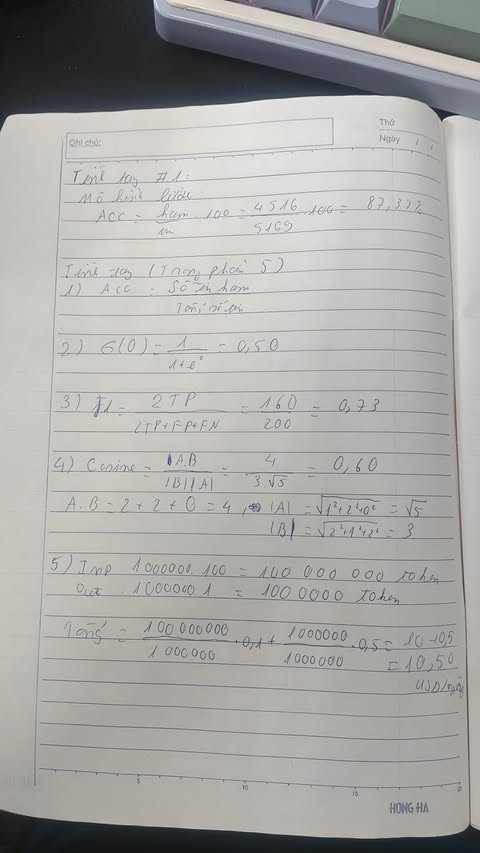
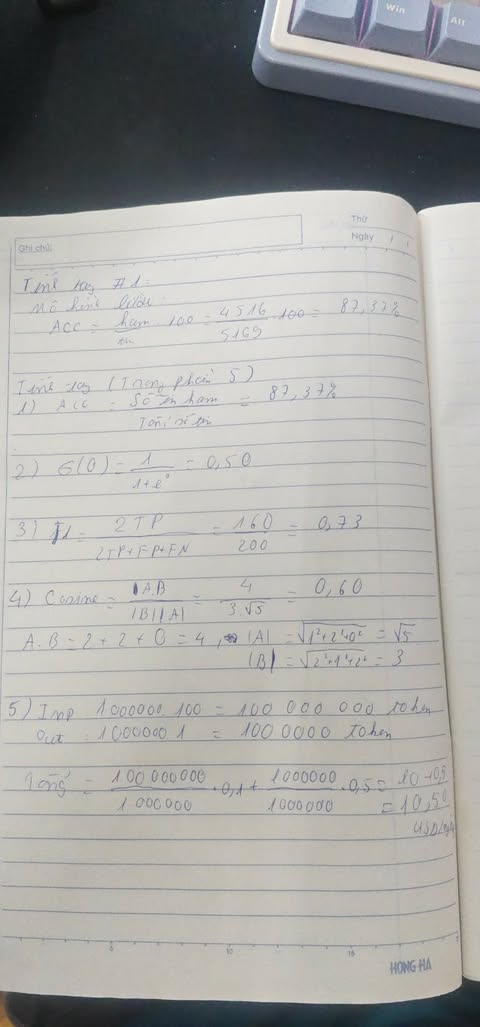
Update Day 01 report results

diff --git a/report/individual/2A202603885_DinhQuocViet.md b/report/individual/2A202603885_DinhQuocViet.md
@@ -10,9 +10,9 @@
 
 | Tệp | Có? |
 | --- | --- |
-| [`day01_lab.ipynb`](day01_lab.ipynb) — notebook đã chạy, còn output | ☐ |
-| [`lab1_report.json`](lab1_report.json) — do ô "Báo cáo cuối" sinh ra | ☐ |
-| [`hand_calc.jpg`](hand_calc.jpg) — ảnh tính tay có các bước | ☐ |
+| [`day01_lab.ipynb`](day01_lab.ipynb) — notebook đã chạy, còn output | không còn |
+| [`lab1_report.json`](lab1_report.json) — do ô "Báo cáo cuối" sinh ra | có |
+| [`hand_calc.jpg`](hand_calc.jpg) — ảnh tính tay có các bước | có |
 
 ## 2. Kết quả chính
 
@@ -20,9 +20,9 @@
 Model	F1 test	F1 SUB 40	p95 (ms/tin)	USD/1k tin
 BoW + LogReg	0.845	0.750	0.339	0
 BoW + MLP	0.921	0.857	1.917	0
-Emb + kNN	0.866	0.889	61.669	0
-Emb + LogReg	0.939	0.857	37.518	0
-Emb + MLP head	0.944	0.889	38.371	0
+MiniLM + kNN	0.866	0.889	61.669	0
+MiniLM + LogReg	0.939	0.857	37.518	0
+MiniLM + MLP head	0.944	0.889	38.371	0
 LLM nhỏ zero-shot	0.919	0.919	1653.841	0.006
 LLM lớn zero-shot	0.974	0.974	1665.246	0.065
 LLM nhỏ few-shot	0.947	0.947	1597.848	0.015
@@ -30,6 +30,7 @@ LLM nhỏ few-shot	0.947	0.947	1597.848	0.015
 ## 3. Dự đoán và thực tế
 
 *Chọn 3 dự đoán `predict(...)` lệch nhiều nhất so với kết quả. Mỗi cái: bạn đoán gì, ra gì, vì sao lệch.*
+
 
 ## 4. Phân tích 50 case khó
 
@@ -46,6 +47,15 @@ Nhóm khó nhất:
 ## 5. Thử thách cá nhân
 
 *Đề theo SEED của bạn, cách làm, kết quả, giải thích.*
+Em thay đổi số nơ-ron lớp ẩn của MLP thành 4 và 512.
+
+| Chỉ số | 4 nơ-ron | 512 nơ-ron |
+|---|---:|---:|
+| Số tham số | 8.009 | 1.025.025 |
+| F1 test | 0.9205 | 0.9153 |
+| Thời gian train | 28.64 giây | 55.04 giây |
+
+Kết quả cho thấy MLP 4 nơ-ron đạt F1 cao hơn và huấn luyện nhanh hơn. Em nhận ra mô hình lớn hơn không phải lúc nào cũng tốt hơn. Mạng nhỏ phù hợp khi dữ liệu không quá phức tạp và cần tiết kiệm tài nguyên.
 
 ## 6. Phương án cho sản phẩm thật
 
